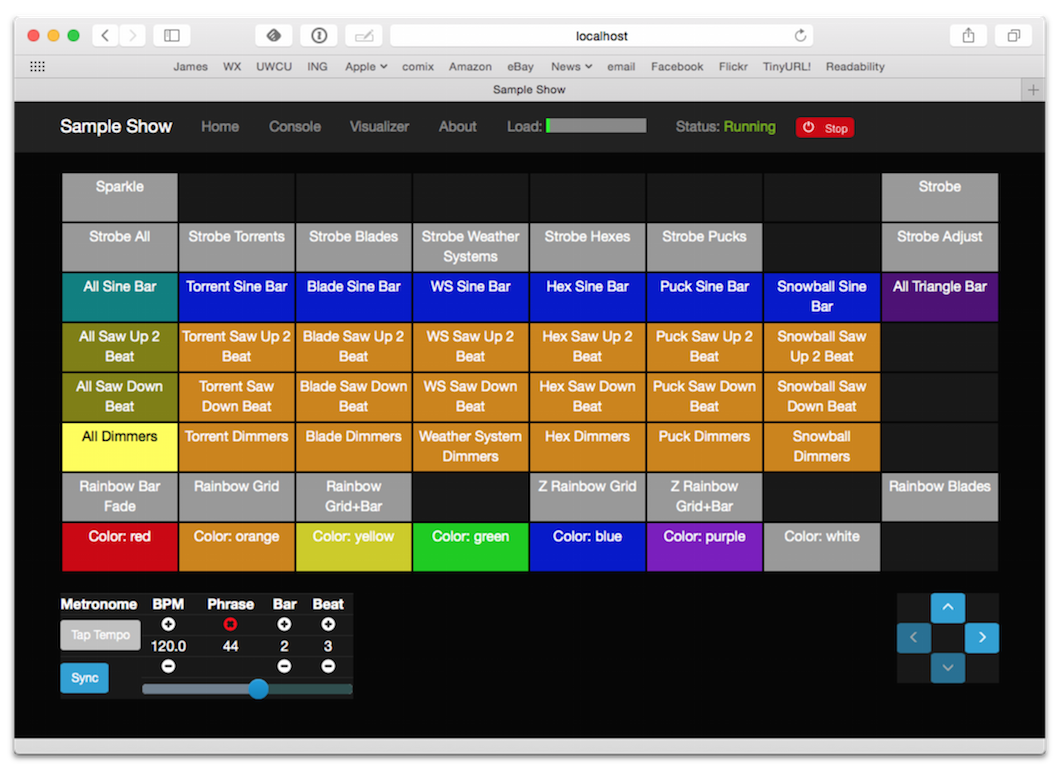
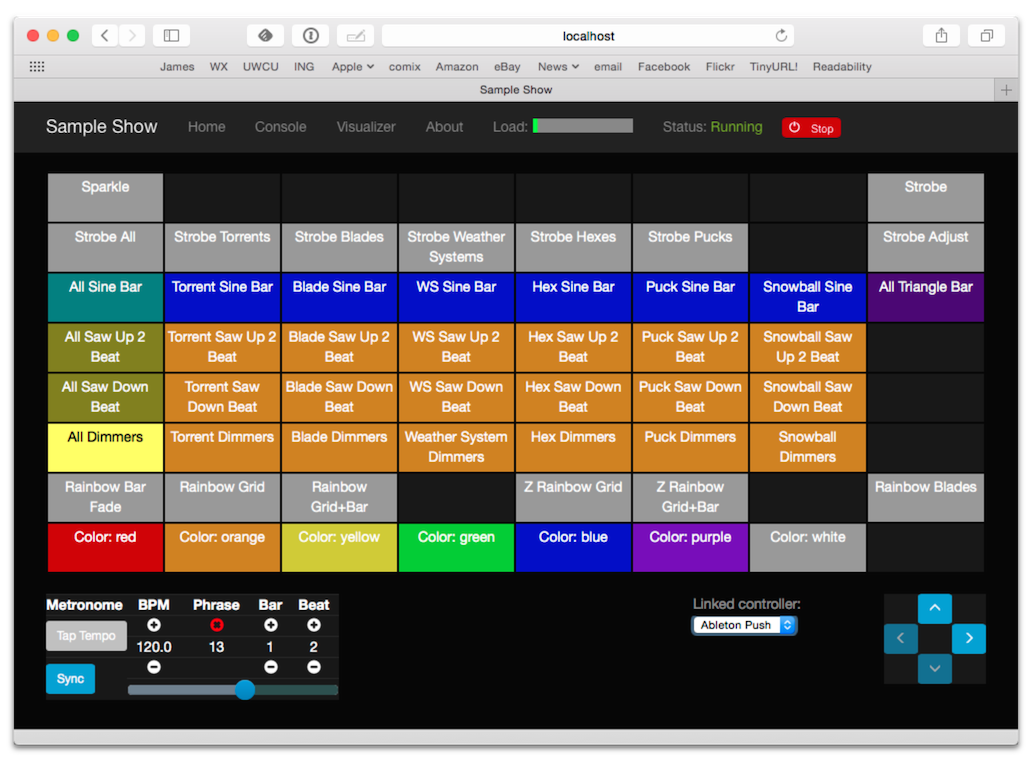
Add more usage documentation.

diff --git a/README.md b/README.md
@@ -95,14 +95,15 @@ tweak something quickly, you can use that:
 
 ![Web console](https://raw.githubusercontent.com/brunchboy/afterglow/master/doc/assets/Console.png)
 
-> However, this does not offer the valuable support you would have from
-> a dedicated REPL like [Cider](https://github.com/clojure-emacs/cider)
-> (in Emacs) or [Cursive](https://cursiveclojure.com) (in IntelliJ):
-> things like symbol completion, popup documentation, and command-line
-> recall, which make for such a vastly more productive exploration
-> session. So even when you are running from a jar rather than
-> launching from a REPL, you will often want to access a real REPL. You
-> can accomplish that by using web the console to invoke
+> However, this does not offer the valuable support you would have
+> from a dedicated REPL like
+> [Cider](https://github.com/clojure-emacs/cider) (in Emacs) or
+> [Cursive](https://cursiveclojure.com) (in IntelliJ): things like
+> symbol completion, popup documentation, and command-line recall,
+> which make for a vastly more productive exploration session. So even
+> when you are running from a jar rather than launching from a REPL,
+> you will often want to access a real REPL. You can accomplish that
+> with command-line arguments or by using web the console to invoke
 > [core/start-nrepl](http://deepsymmetry.org/afterglow/doc/afterglow.core.html#var-start-nrepl)
 > and then connecting your favorite REPL environment to the network
 > REPL port you created.
@@ -114,6 +115,24 @@ Push, so you can control them from either place, and see the names
 that go with the colored buttons on the control surface:
 
 ![Show control](https://raw.githubusercontent.com/brunchboy/afterglow/master/doc/assets/ShowGrid.png)
+
+Here is the Ableton Push interface tied to that same section of the
+cue grid. This physical control surface lets you trigger more than one
+cue at the same time, and also gives you niceties unavailable with a
+mouse, like pressure sensitivity so your effect intensity, speed,
+color, or other parameters can be varied as you alter the pressure
+with which you are applying to the pad:
+
+![Push interface](https://raw.githubusercontent.com/brunchboy/afterglow/master/doc/assets/AbletonInterface.jpg)
+
+You can adjust running effects, scroll around the cue grid, and adjust
+or sync the show metronome from either interface. Other MIDI
+controllers can be mapped to provide similar functionality, and
+hopefully such mappings will make their way into Afterglow soon, but
+it will be hard to find many as nicely designed as the Push. (The
+Afterglow mapping is done entirely on the User layer as well, so it
+coexists gracefully with Ableton Live, and you can switch back and
+forth by pressing the User button if you want to perform with both.)
 
 But, getting back to our REPL-based example: We next start the sample
 show, which runs on DMX universe 1. You will want to have OLA
@@ -206,7 +225,8 @@ quickly get relief from overly bright lights.
 > you bind the Push to your show, the Push Master encoder is
 > automatically tied to the show master dimmer, with nice graphical
 > feedback in the text area. Plus you get deep control over the show
-> metronome as well:
+> metronome as well, as shown above. Here is how the binding is
+> established:
 
 ```clojure
 (require '[afterglow.controllers.ableton-push :as push])
